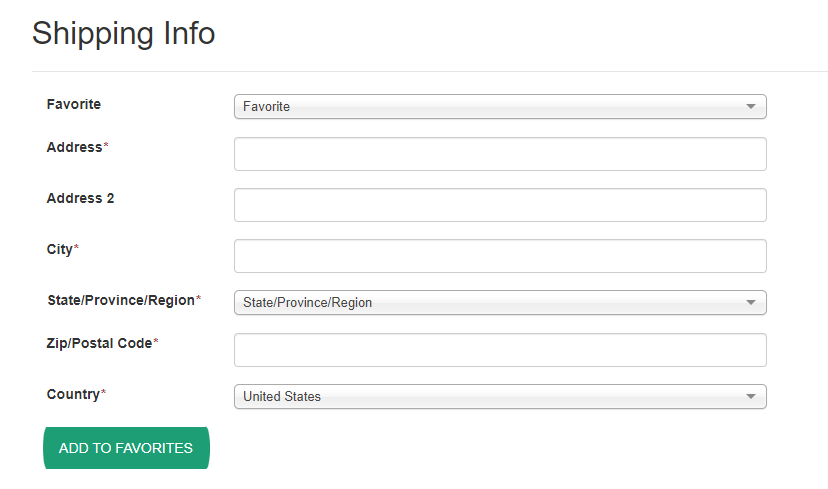
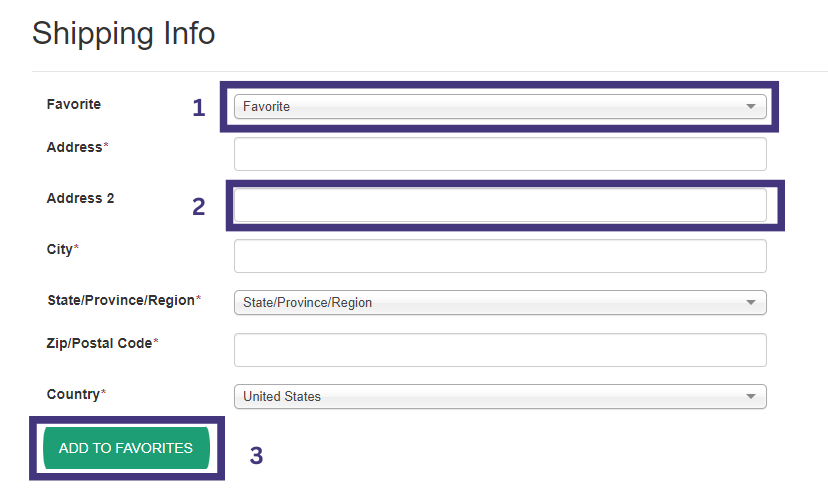
update readme

diff --git a/README.md b/README.md
@@ -6,9 +6,9 @@ A visual inventory of React components used inside the Quote Manager application
 [General Components](#general-components)  
 [Quote List Page _(/quote-list)_](#quote-list-page-quote-list)  
 [Search Page _(/search)_](#search-page-search)  
-[Cart Page _(/cart)_](#cart-page-cart)
-Warranty Page _(/checkout/warranty)_  
-Shipping Page _(/checkout/shipping)_  
+[Cart Page _(/cart)_](#cart-page-cart)  
+[Warranty Page _(/checkout/warranty)_](#warranty-page-checkout-warranty)  
+[Shipping Page _(/checkout/shipping)_](#shipping-page-checkout-shipping)  
 Billing Page _(/checkout/billing)_  
 Order Review Page _(/checkout/review)_
 
@@ -175,3 +175,38 @@ Status: **In Code Review**
 
 1. Row **In Code Review**
 2. Part Adder **In Code Review**
+
+# Warranty Page (/checkout/warranty)
+
+![Warranty Page](https://github.com/zsanchez-calix/my-calix-store-inventory/blob/main/Quote%20Manager/checkout/warranty/checkout-warranty-page.png?raw=true "Warranty Page")
+
+Components used in Checkout Warranty page of Quote Manager on the My Calix Store.
+
+- [Warranty Form](#warranty-form)
+
+## Warranty Form
+
+![Warranty Form](https://github.com/zsanchez-calix/my-calix-store-inventory/blob/main/Quote%20Manager/checkout/warranty/warranty-component.png "Warranty Form")
+
+Status: **In Code Review**
+
+# Shipping Page (/checkout/shipping)
+
+![Shipping Page](https://github.com/zsanchez-calix/my-calix-store-inventory/blob/main/Quote%20Manager/checkout/shipping/checkout-shipping-page.png "Shipping Page")
+
+Components used in Checkout Shipping page of Quote Manager on the My Calix Store.
+
+- [Shipment Address Form](#shipment-address-form)
+-
+
+## Shipment Address Form
+
+![Shipment Address Form](https://github.com/zsanchez-calix/my-calix-store-inventory/blob/main/Quote%20Manager/checkout/shipping/shipping-address-form.png "Shipment Address Form")
+
+Status: **In Code Review**
+
+### Sub-Components
+
+1. Dropdown (**In Design System**)
+2. Input (**In Design System**)
+3. Rounded Button (**In Design System**)
